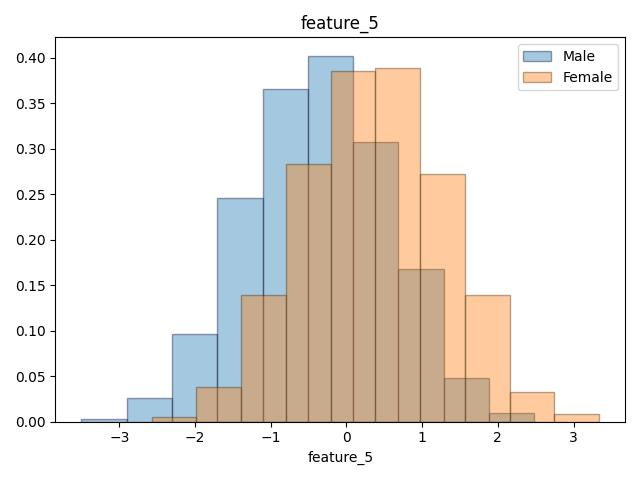
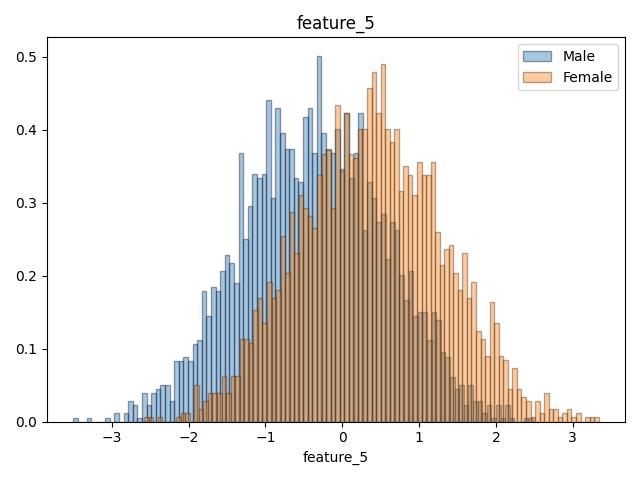
minor fixes

diff --git a/app/libs/ml_lib.py b/app/libs/ml_lib.py
@@ -323,12 +323,14 @@ def plot_hist_binary(D, L, nr_features, positive_c_name, negative_c_name, file_n
 
     D0, D1, features_dict = _setup_data_plot(D, L, nr_features, positive_c_name, negative_c_name)
 
+    bin_size_T = 100 if D1.shape[1] >= 100 else D1.shape[1] 
+    bin_size_F = 100 if D0.shape[1] >= 100 else D0.shape[1] 
     for dIdx in range(nr_features):
         plt.figure()
         plt.title(features_dict[dIdx])
         plt.xlabel(features_dict[dIdx])
-        plt.hist(D0[dIdx, :], bins = 10, density = True, alpha = 0.4, ec="#090b33", label = negative_c_name)
-        plt.hist(D1[dIdx, :], bins = 10, density = True, alpha = 0.4, ec="#452b0d", label = positive_c_name)
+        plt.hist(D0[dIdx, :], bins = bin_size_F, density = True, alpha = 0.4, ec="#090b33", label = negative_c_name)
+        plt.hist(D1[dIdx, :], bins = bin_size_T, density = True, alpha = 0.4, ec="#452b0d", label = positive_c_name)
         
         plt.legend()
         plt.tight_layout()
@@ -353,19 +355,19 @@ def plot_scatter(D, L, nr_features, positive_c_name, negative_c_name):
             plt.tight_layout()
             plt.savefig('plots/scatter/scatter_%d_%d.jpg' % (dIdx1, dIdx2))
 
-def plot_pearson_heatmap(D, L):
+def plot_pearson_heatmap(D, L, additional=''):
     plt.figure()
-    plt.title('Female-Male')
+    plt.title('Female-Male %s' % additional)
     seaborn.heatmap(np.corrcoef(D), linewidth=0.2, cmap="Greys", square=True, cbar=False)
-    plt.savefig('plots/pearson/Pearson_all.jpg')
+    plt.savefig('plots/pearson/%s_Pearson_all.jpg' % additional)
     plt.figure()
     plt.title('Male')
     seaborn.heatmap(np.corrcoef(D[:, L==0]), linewidth=0.2, cmap="Blues", square=True,cbar=False)
-    plt.savefig('plots/pearson/Pearson_Male.jpg')
+    plt.savefig('plots/pearson/%s_Pearson_Male.jpg' % additional)
     plt.figure()
     plt.title('Female')
     seaborn.heatmap(np.corrcoef(D[:, L==1]), linewidth=0.2, cmap="Oranges", square=True, cbar=False)
-    plt.savefig('plots/pearson/Pearson_Female.jpg')
+    plt.savefig('plots/pearson/%s_Pearson_Female.jpg' % additional)
 
 def plotDCF(x, y, xlabel, model_name:str, regularized, pi_T=0.5):
     plt.figure()
@@ -409,7 +411,7 @@ def PCA(data, m:int):
     """
     :m = nr of features to keep
     """
-    print(f'Applying PCA using {m}/{data.shape[0]} features')
+    print(f'\n------------------------------\nApplying PCA using {m}/{data.shape[0]} features')
     # mean lung l'asse x
     mu = data.mean(1)  # 1-d array
 
@@ -493,20 +495,21 @@ def spilt_K_fold(D, L, k:int, seed=0) -> Yield(Tuple):
 
             i.e. with k == 4
             for i in range(k)
-                i == 0)
-                    D = [[ D_fold_1 D_fold_2 D_fold_2 D_fold_4 ]] 
-                    L =  [ L_fold_1 L_fold_2 L_fold_2 L_fold_4 ]
+                >>> i == 0
+                    D = [[ D_fold_1 D_fold_2 D_fold_3 D_fold_4 ]] 
+                    L =  [ L_fold_1 L_fold_2 L_fold_3 L_fold_4 ]
                                         
                                         DTR         LTR       DVA       LVA
                         --> yields (D_fold_234, L_fold_234, D_fold_1, L_fold_1)
 
-                i == 1)
-                    D = [[ D_fold_1 D_fold_2 D_fold_2 D_fold_4 ]] 
-                    L =  [ L_fold_1 L_fold_2 L_fold_2 L_fold_4 ]
+                >>> i == 1
+                    D = [[ D_fold_1 D_fold_2 D_fold_3 D_fold_4 ]] 
+                    L =  [ L_fold_1 L_fold_2 L_fold_3 L_fold_4 ]
                                     
                                         DTR         LTR       DVA       LVA
                         --> yields (D_fold_134, L_fold_134, D_fold_2, L_fold_2)
-            ...
+
+                >>> i == ...
     """
     if k < 2:
         raise ValueError("nr of folds must be at least 2")

diff --git a/app/core/main.py b/app/core/main.py
@@ -144,9 +144,9 @@ if __name__ == '__main__':
 
     # plotting(D, L)
 
-    # gaussian(D, L, application_priors, nr_kfold_split, cfp, cfn)
+    gaussian(D, L, application_priors, nr_kfold_split, cfp, cfn)
 
-    linear_logistic_regression(D, L, application_priors, nr_kfold_split, cfp, cfn)
+    # linear_logistic_regression(D, L, application_priors, nr_kfold_split, cfp, cfn)
 
 
 
